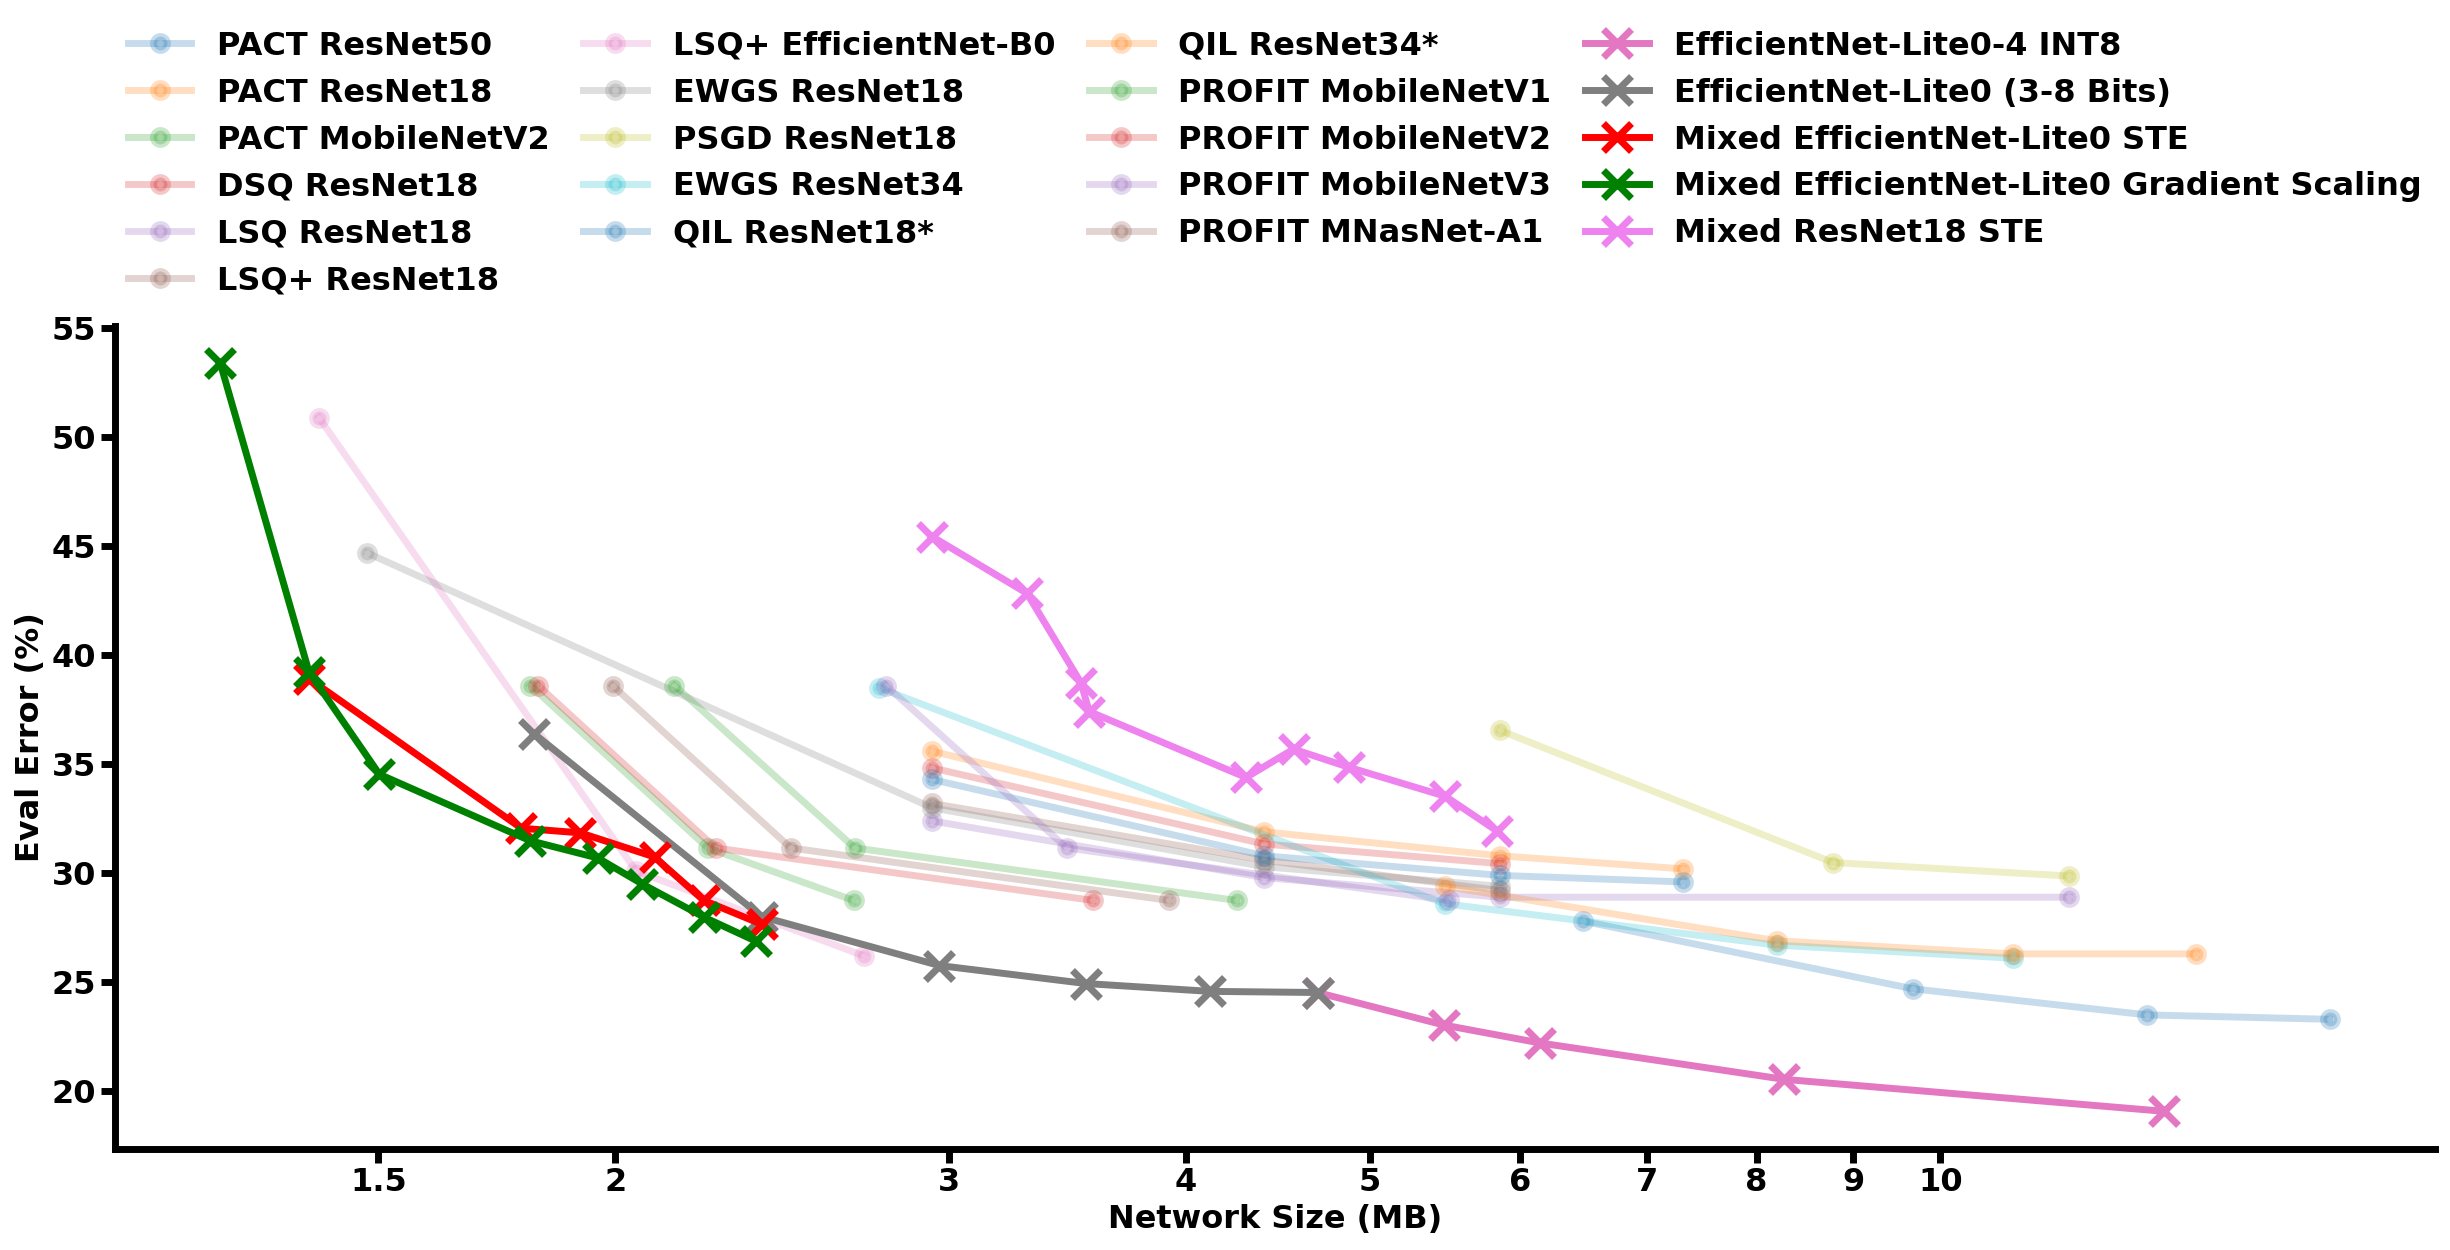
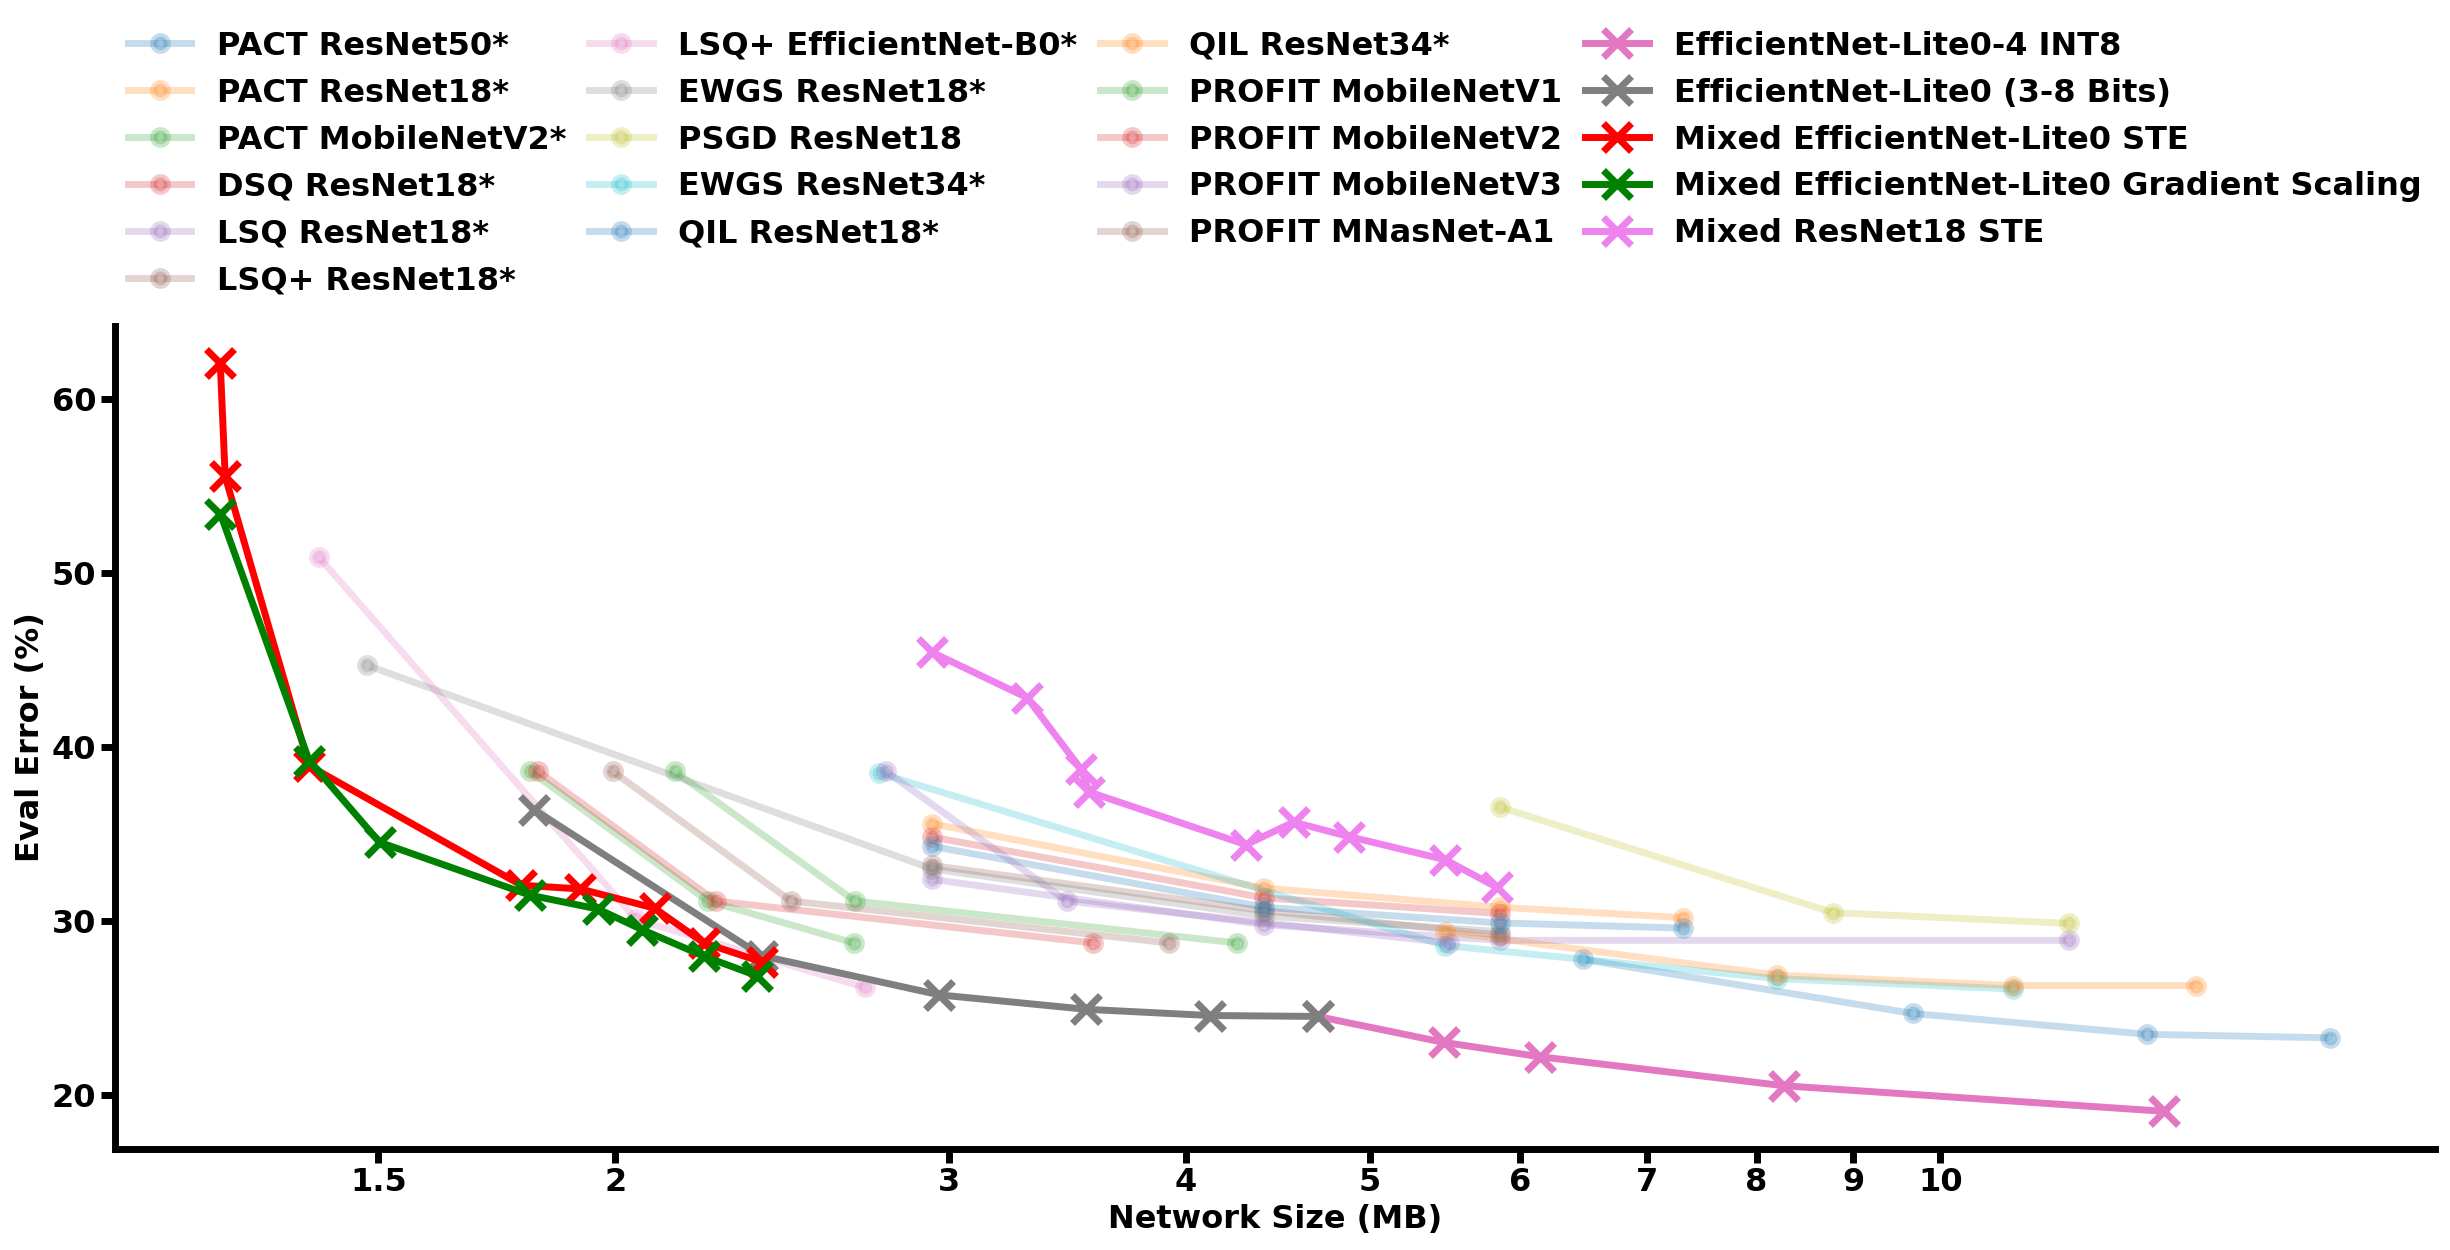
normal - added two obs to figure

diff --git a/examples/efficientnet/visualization.py b/examples/efficientnet/visualization.py
@@ -438,9 +438,11 @@ def plot_comparison(name):
           label='EfficientNet-Lite0 (3-8 Bits)', ms=20, markeredgewidth=5,
           linewidth=5)
 
-  xv = np.array([1.294680054, 1.700428101, 1.832848022,
+  xv = np.array([1.1537720947265625, 1.1611640625, 1.294680054, 1.700428101,
+                 1.832848022,
                 2.013916138, 2.142487061, 2.306124023]) + 0.16806400 / 2
-  yv = 100 - np.array([0.6106770635, 0.679361999, 0.6814778447,
+  yv = 100 - np.array([0.37939453125, 0.4444986879825592, 0.6106770635,
+                       0.679361999, 0.6814778447,
                       0.6925455928, 0.7124023438, 0.7234700322]) * 100
   ax.plot(xv, yv, marker='x', label="Mixed EfficientNet-Lite0 STE",
           ms=20, markeredgewidth=5, linewidth=5, color='red')
